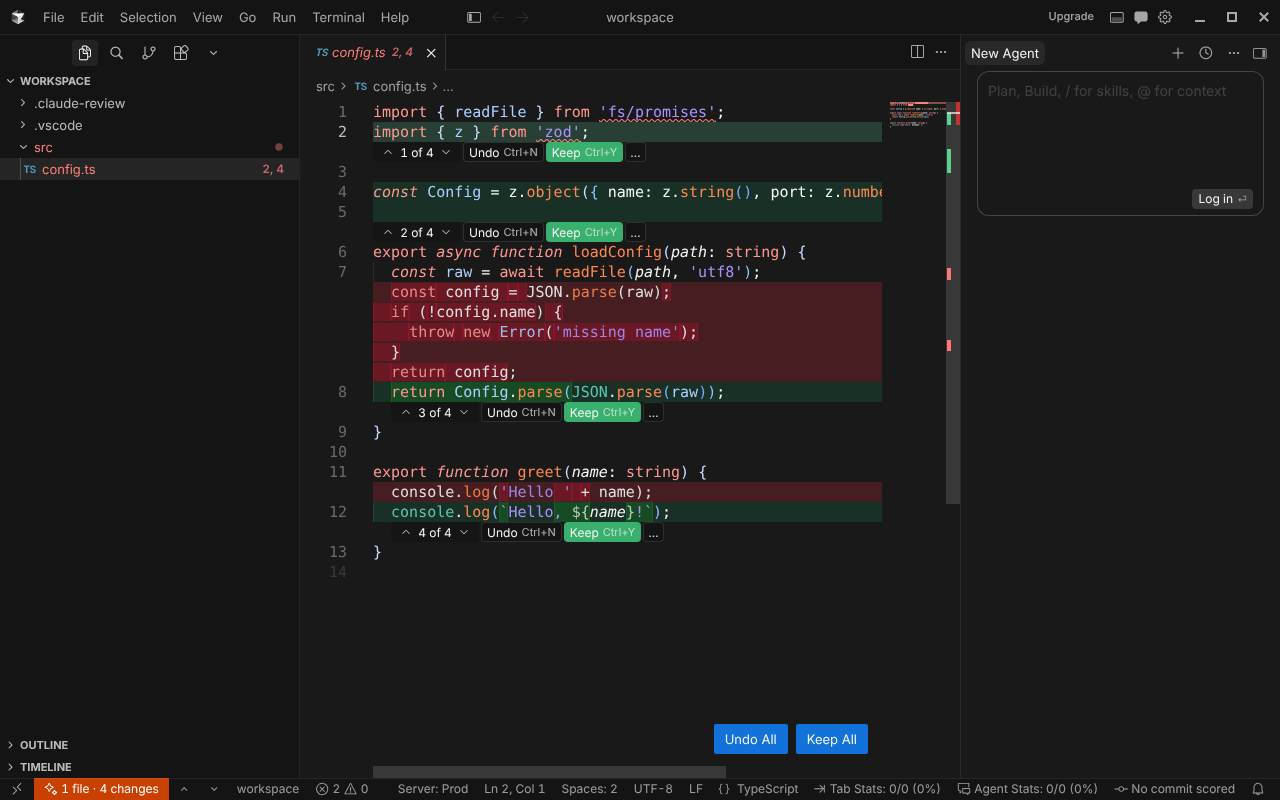
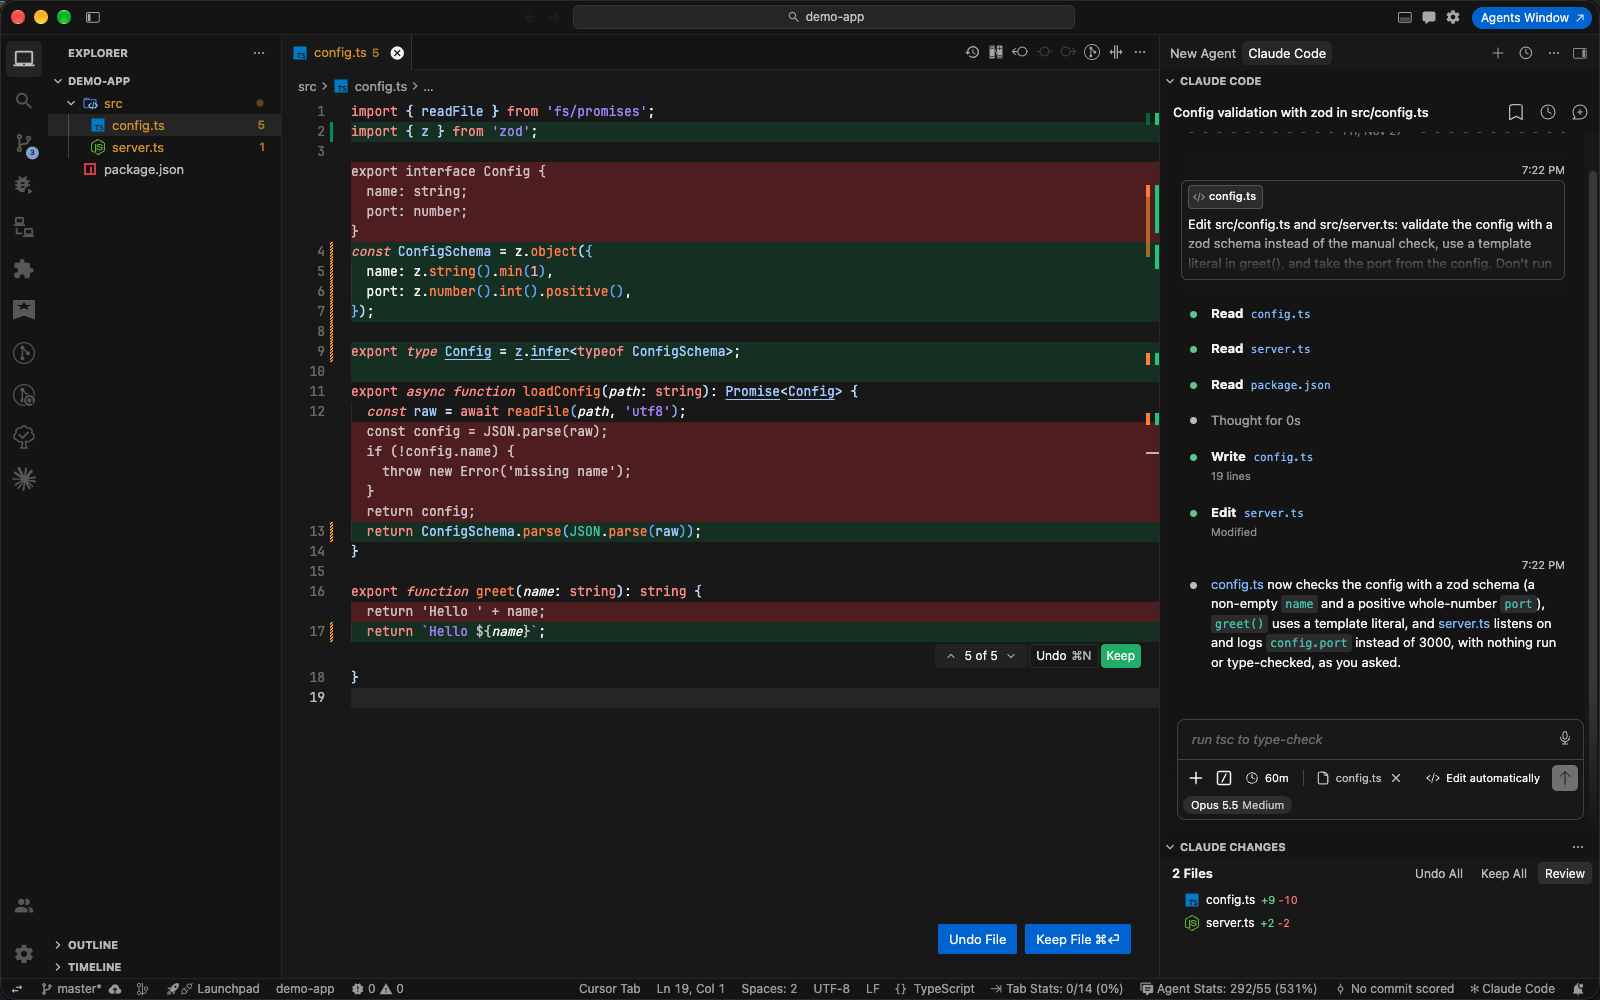
docs: fresh live screenshots (Claude Changes, single pill, Undo File / Keep File), drop the outdated GIF and unused fallback shot

diff --git a/CLAUDE.md b/CLAUDE.md
@@ -43,7 +43,7 @@ Extension id: **`inlinediff.claude-inline-diff`** (needed in `~/.cursor/argv.jso
 | 2 Diff core + model | done (29 tests) |
 | 3 Hook + store | done (simulated CLI/extension payloads, bundled script over stdin, Bash via git) |
 | 4 Hook install/uninstall | done (temp CLAUDE_CONFIG_DIR tests; acceptEdits offer + rollback; vscode:uninstall cleanup) |
-| 5 Rendering (insets + fallback) | done — verified in real VS Code 1.148 via e2e (insets drawn, decoration fallback, screenshots in docs/media) |
+| 5 Rendering (insets + fallback) | done — verified in real VS Code 1.148 via e2e (insets drawn, decoration fallback); docs/media screenshots retaken live in Cursor 3.32.4 (0.1.31) |
 | 6 Controls, navigation, status bar, undo | done — e2e: accept/reject/undo/auto-advance/absorb/new-file trash/Bash/feedback/steps |
 | 7 vsix + docs | done — `npm run package` → claude-inline-diff.vsix (11 files, ~67 KB; installs via code CLI); README, docs/INSTALL.uk.md, docs/MANUAL_TESTING.uk.md |
 | 8 Panel, Bash, steps, feedback | done — Claude Changes (files, under the Claude Code chat) + Claude Steps views, Bash via git, step revert, `Claude editing <file>`, reveal-on-edit, reject with feedback (UserPromptSubmit/PostToolUse additionalContext) |

diff --git a/README.md b/README.md
@@ -9,13 +9,11 @@ It uses Claude Code hooks, so no API key is needed, there's no proxy, and it mak
 
 ![Inline diff in Cursor 3.32.4](docs/media/cursor-inline-diff.png)
 
-*Cursor 3.32.4, Cursor Dark: red removed blocks, Cursor-style `⌃ 1 of 4 ⌄ │ Undo │ Keep` pill under each change, floating per-file **Undo File / Keep File** bar. Colours and button styles follow Cursor's own inline-diff CSS.*
+*Cursor 3.32.4, Cursor Dark, a real edit from the Claude Code panel: red removed blocks between the lines, one Cursor-style `⌃ 5 of 5 ⌄ │ Undo ⌘N │ Keep` pill under the change nearest the cursor, the floating **Undo File / Keep File ⌘⏎** bar, and the **Claude Changes** list under the chat with Undo All / Keep All / Review.*
 
 | Cursor Light | Review All (multi-file diff) |
 |---|---|
 | ![](docs/media/cursor-light.png) | ![](docs/media/cursor-review-all.png) |
-
-![Keep → auto-advance → Undo](docs/media/review-flow.gif)
 
 **Extension id:** `inlinediff.claude-inline-diff`
 
